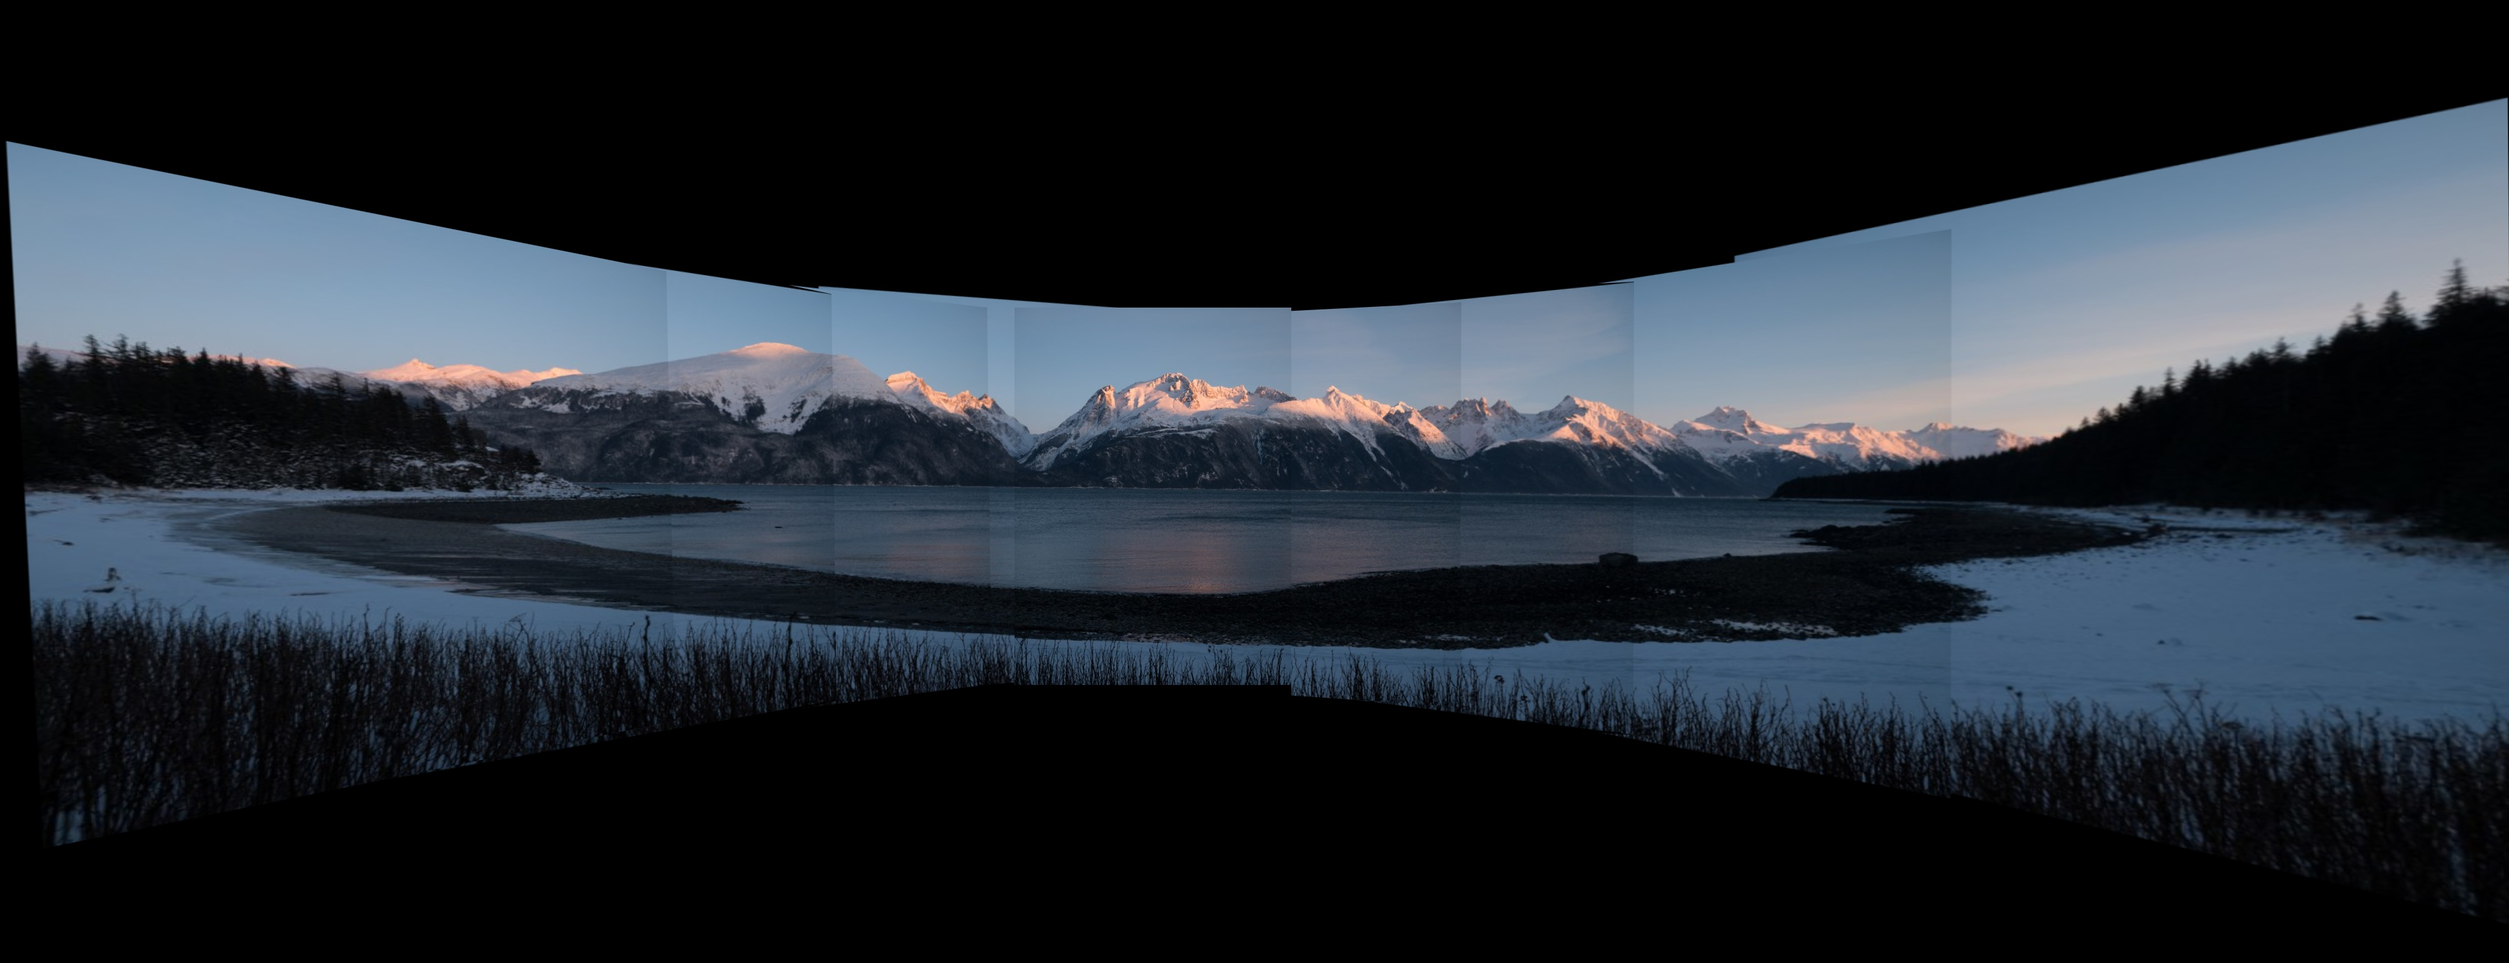
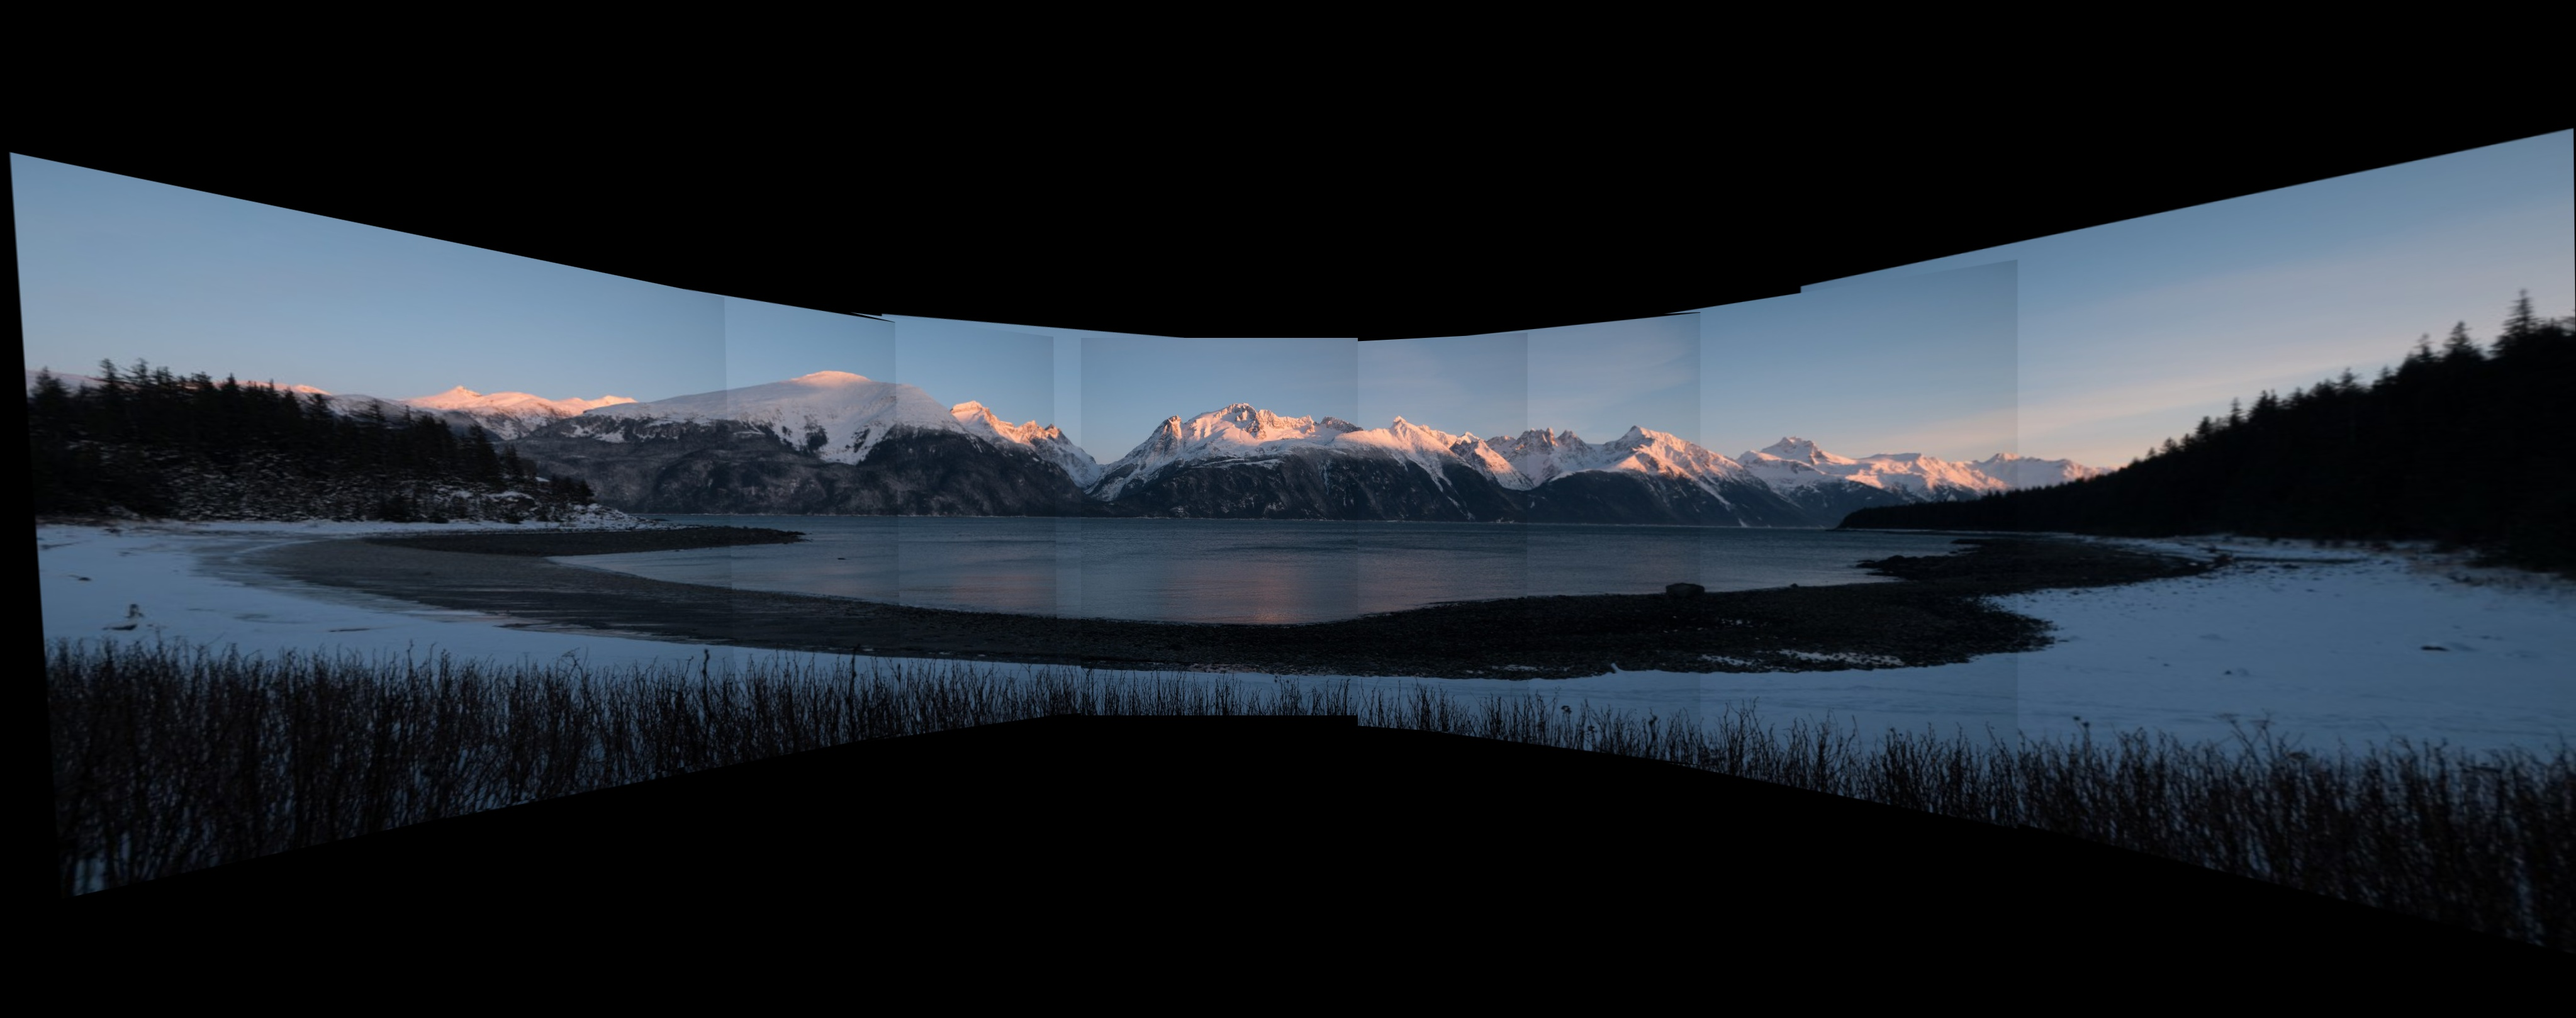
update

diff --git a/a3/assignment3.py b/a3/assignment3.py
@@ -283,9 +283,9 @@ def warpTwoImages_poisson(img1, img2, H):
     # plt.imshow(result),plt.show()
     normal_clone = cv2.seamlessClone(img1, result, mask, center, cv2.NORMAL_CLONE)
     mixed_clone = cv2.seamlessClone(img1, result, mask, center, cv2.MIXED_CLONE)
-    # plt.imshow(normal_clone),plt.show()
+    plt.imshow(normal_clone),plt.show()
     # plt.imshow(mixed_clone),plt.show()
-    result = mixed_clone
+    result = normal_clone
 
     return result
 
